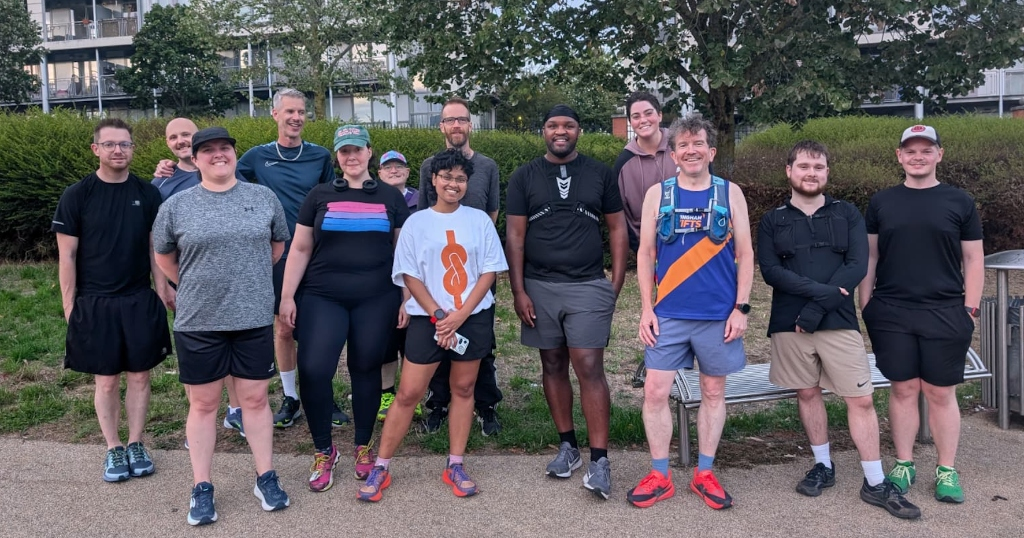
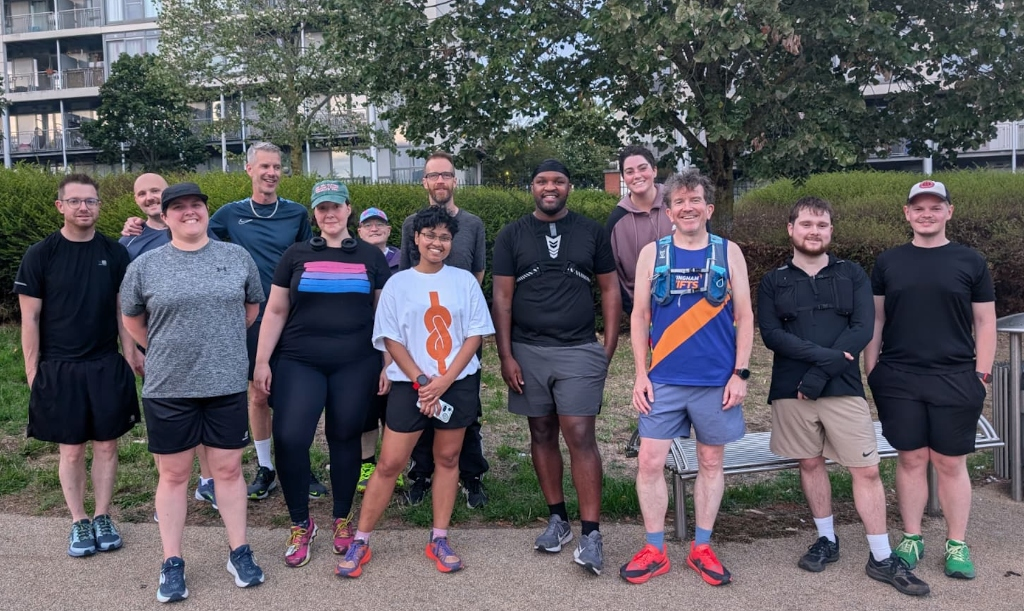
feat: move photo subtitle to top left and update C25K photo

diff --git a/index.html b/index.html
@@ -17,7 +17,7 @@
   <link rel="icon" type="image/jpeg" href="assets/swifts_logo.jpg">
 
   <!-- Main Stylesheet -->
-  <link rel="stylesheet" href="styles.css?v=3.2">
+  <link rel="stylesheet" href="styles.css?v=3.3">
 </head>
 <body>
 
@@ -236,7 +236,7 @@
       <div class="news-single-featured">
         <div class="initiative-card featured-news-card">
           <div class="initiative-img-box">
-            <img src="assets/c25k_graduates.jpg?v=2" alt="Birmingham Swifts Couch to 5k cohort runners and leaders in the park" class="initiative-img">
+            <img src="assets/c25k_graduates.jpg?v=3" alt="Birmingham Swifts Couch to 5k cohort runners and leaders in the park" class="initiative-img">
             <span class="initiative-badge">🐣 BEGINNERS PROGRAM</span>
           </div>
           <div class="initiative-body">

diff --git a/news.html b/news.html
@@ -100,7 +100,7 @@
         <!-- Couch to 5k -->
         <article class="initiative-card">
           <div class="initiative-img-box">
-            <img src="assets/c25k_graduates.jpg?v=2" alt="Birmingham Swifts Couch to 5k cohort runners and leaders in the park" class="initiative-img">
+            <img src="assets/c25k_graduates.jpg?v=3" alt="Birmingham Swifts Couch to 5k cohort runners and leaders in the park" class="initiative-img">
             <span class="initiative-badge">🐣 BEGINNERS PROGRAM</span>
           </div>
           <div class="initiative-body">

diff --git a/styles.css b/styles.css
@@ -564,7 +564,7 @@ body.has-alert .hero-section {
 
 .hero-photo-badge {
   position: absolute;
-  bottom: 14px;
+  top: 14px;
   left: 14px;
   display: inline-flex;
   align-items: center;
@@ -1582,7 +1582,7 @@ body.has-alert .hero-section {
   }
 
   .hero-photo-badge {
-    bottom: 8px;
+    top: 8px;
     left: 8px;
     font-size: 0.72rem;
     padding: 4px 10px;
